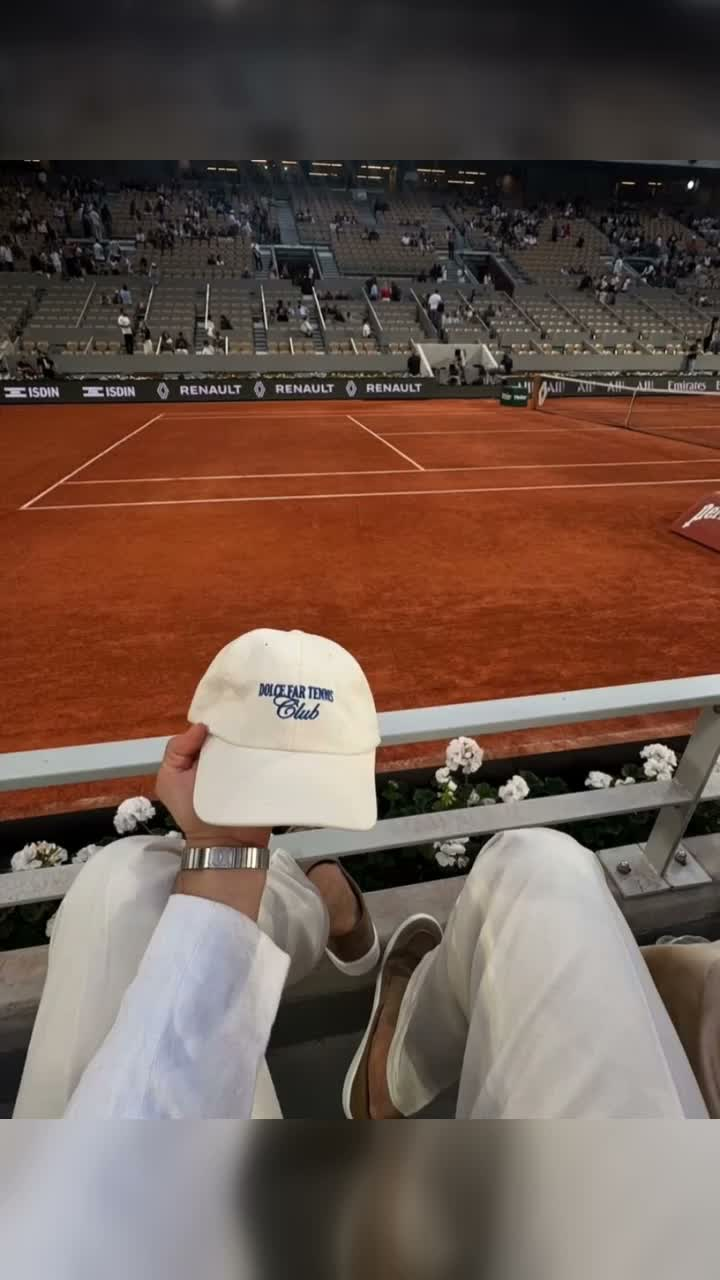
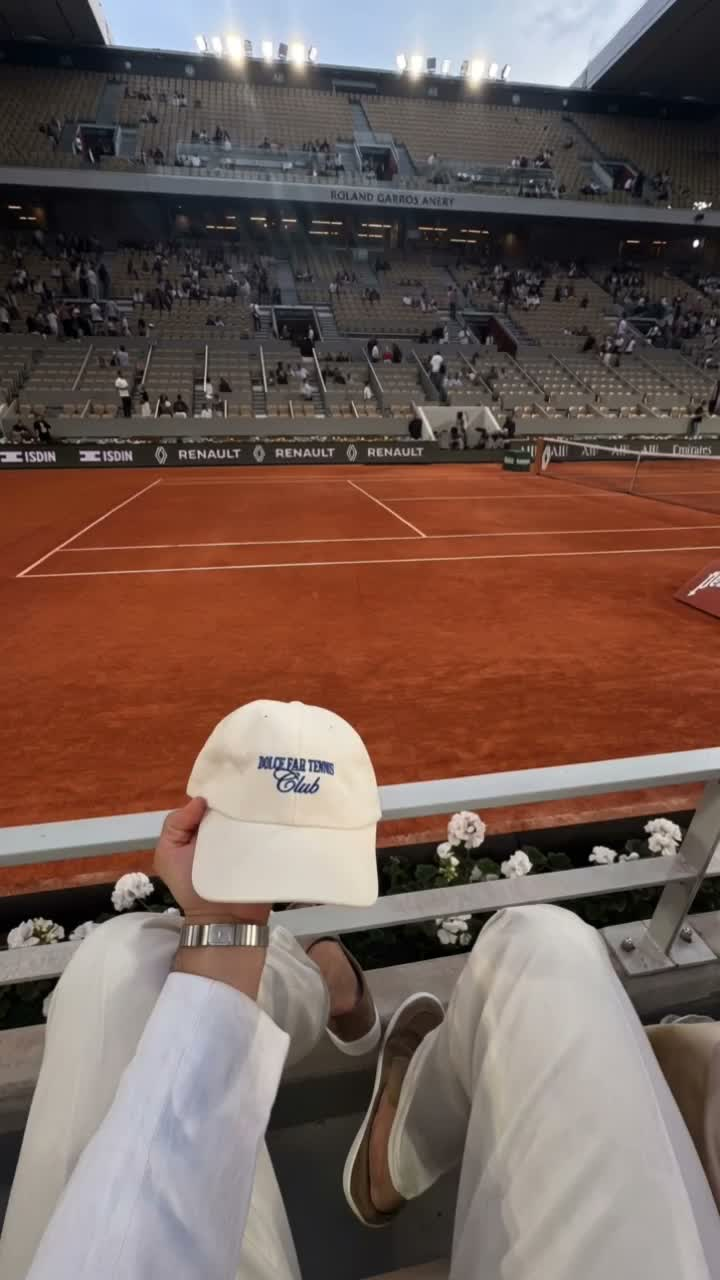
Landing overhaul: seamless hero reel, count-up stats, DM collage, cube-flip, how-it-works
- Hero: full-bleed 9:16 reel (all 4 clips outpainted to native 9:16, no letterbox) —
  courtside, Federer serve, Alcaraz trophy, slow-mo celebration
- Hero stats: count-up benefit metrics (matches analysed / tournaments / data points)
- Hook: cube-flip word rotator (high-income skill -> financial freedom -> ...)
- "Unlike the rest": Instagram-DM testimonial collage replaces photo grid
- Feature section rewritten as a 4-step "how it works" with new analysis imagery

diff --git a/index.html b/index.html
@@ -178,6 +178,25 @@ footer{border-top:1px solid var(--line-soft);padding:40px 0;font-size:13px;color
 .foot .links{display:flex;gap:26px;font-size:11px;text-transform:uppercase;letter-spacing:1.5px;font-weight:500}
 .foot a:hover{color:var(--white)}
 
+/* cube-flip word rotator */
+.rotator{display:inline-block;perspective:900px;vertical-align:baseline}
+.rotator .w{display:inline-block;color:var(--white);border-bottom:3px solid var(--gold);transition:transform .33s var(--ease),opacity .33s var(--ease);transform-origin:50% 62%;will-change:transform,opacity;backface-visibility:hidden}
+
+/* DM collage ("you're unlike the rest") */
+.dmgrid{column-count:4;column-gap:14px;padding:0 14px;filter:brightness(.66) saturate(.95)}
+.dm{break-inside:avoid;margin:0 0 14px;background:#141413;border:1px solid var(--line-soft);border-radius:18px;padding:14px 14px 16px}
+.dm-h{display:flex;align-items:center;gap:9px;margin-bottom:10px}
+.dm-h .av{width:28px;height:28px;border-radius:50%;background:linear-gradient(135deg,#2c2c29,#3a3a36);border:1px solid var(--line);display:flex;align-items:center;justify-content:center;font-size:10px;font-weight:600;color:#e9e7df;flex:none}
+.dm-h .hn{font-size:12.5px;font-weight:600;color:#e9e7df}
+.dm-h .on{margin-left:auto;font-size:10px;color:var(--faint)}
+.bub{background-color:#2c2c2a;color:#ecece6;font-size:13px;line-height:1.45;padding:8px 12px;border-radius:16px 16px 16px 5px;margin-top:6px;max-width:94%;width:fit-content}
+.bub.p{border-radius:16px;line-height:1.5}
+@media(max-width:820px){.dmgrid{column-count:2}}
+@media(max-width:520px){.dmgrid{column-count:1}}
+
+/* count-up */
+.hstat b.count{font-variant-numeric:tabular-nums}
+
 /* motion */
 .reveal{opacity:0;transform:translateY(20px);transition:opacity .8s var(--ease),transform .8s var(--ease)}
 .reveal.in{opacity:1;transform:none}
@@ -214,15 +233,15 @@ footer{border-top:1px solid var(--line-soft);padding:40px 0;font-size:13px;color
     <div class="cta"><a class="btn" href="https://app.wavehubtennis.com/apply">Apply</a></div>
   </div>
   <div class="hero-stats">
-    <div class="hstat"><b>ATP</b><span>Men's tennis only</span></div>
-    <div class="hstat"><b>98%</b><span>Never turn a profit</span></div>
-    <div class="hstat"><b>2022</b><span>In the game since</span></div>
+    <div class="hstat"><b class="count" data-to="2500" data-suffix="+">0</b><span>ATP matches analysed</span></div>
+    <div class="hstat"><b class="count" data-to="60" data-suffix="+">0</b><span>Tournaments a year</span></div>
+    <div class="hstat"><b class="count" data-to="128" data-suffix="">0</b><span>Data points per pick</span></div>
   </div>
 </section>
 
 <section class="hook">
   <div class="wrap">
-    <h2 class="reveal">If someone offered you<br><em>a high-income skill</em><br>would you take it?</h2>
+    <h2 class="reveal">If someone offered you<br><span class="rotator"><span class="w">a high-income skill</span></span><br>would you take it?</h2>
     <div class="reveal">
       <span class="join">
         <span class="avstack"><span>MK</span><span>TS</span><span>VK</span></span>
@@ -233,21 +252,25 @@ footer{border-top:1px solid var(--line-soft);padding:40px 0;font-size:13px;color
 </section>
 
 <section class="gallery">
-  <div class="grid" aria-hidden="true">
-    <div class="tile"><img src="assets/wh-run.jpg" alt=""></div>
-    <div class="tile"><img src="assets/wh-terrace.jpg" alt=""></div>
-    <div class="tile"><img src="assets/wh-tennis.jpg" alt=""></div>
-    <div class="tile"><img src="assets/wh-gwagon.jpg" alt=""></div>
-    <div class="tile"><img src="assets/wh-phone.jpg" alt=""></div>
-    <div class="tile"><img src="assets/wh-terrace.jpg" alt=""></div>
-    <div class="tile"><img src="assets/wh-tennis.jpg" alt=""></div>
-    <div class="tile"><img src="assets/wh-run.jpg" alt=""></div>
-    <div class="tile"><img src="assets/wh-gwagon.jpg" alt=""></div>
-    <div class="tile"><img src="assets/wh-phone.jpg" alt=""></div>
-    <div class="tile"><img src="assets/wh-tennis.jpg" alt=""></div>
-    <div class="tile"><img src="assets/wh-terrace.jpg" alt=""></div>
-    <div class="tile"><img src="assets/wh-run.jpg" alt=""></div>
-    <div class="tile"><img src="assets/wh-gwagon.jpg" alt=""></div>
+  <div class="dmgrid" aria-hidden="true">
+    <div class="dm"><div class="dm-h"><span class="av">JV</span><span class="hn">jonas_v</span><span class="on">now</span></div>
+      <div class="bub">omg</div><div class="bub">the bet just landed 😭</div><div class="bub">you're a genius</div><div class="bub">i've been telling everyone</div><div class="bub">thank you man 🙏</div></div>
+    <div class="dm"><div class="dm-h"><span class="av">MR</span><span class="hn">m.reuter</span><span class="on">2h</span></div>
+      <div class="bub p">Bro I have to say this properly. Six months ago I was chasing every match and tilting my bankroll. Since I joined I bet a third as often, I actually understand the value now, and it finally feels like a skill instead of gambling. Genuinely grateful — this changed how I think about the whole thing.</div></div>
+    <div class="dm"><div class="dm-h"><span class="av">KV</span><span class="hn">kev.value</span><span class="on">1d</span></div>
+      <div class="bub">no-bet days hit different 😮💨</div><div class="bub">so much more disciplined now</div></div>
+    <div class="dm"><div class="dm-h"><span class="av">TS</span><span class="hn">t.serves</span><span class="on">3h</span></div>
+      <div class="bub">the staking plan alone is worth it</div><div class="bub">just renewed for another year ✅</div></div>
+    <div class="dm"><div class="dm-h"><span class="av">LB</span><span class="hn">luca__b</span><span class="on">now</span></div>
+      <div class="bub">how are you this early on the price every time 😂</div><div class="bub">unreal</div></div>
+    <div class="dm"><div class="dm-h"><span class="av">AP</span><span class="hn">andreas_p</span><span class="on">5h</span></div>
+      <div class="bub p">First month done. Didn't expect to actually enjoy the patience. Feels like an investment now, not a punt. Cheers for the honesty.</div></div>
+    <div class="dm"><div class="dm-h"><span class="av">SK</span><span class="hn">sim.k</span><span class="on">now</span></div>
+      <div class="bub">omg omg</div><div class="bub">called it again</div><div class="bub">🐐🐐🐐</div></div>
+    <div class="dm"><div class="dm-h"><span class="av">DM</span><span class="hn">david.mnt</span><span class="on">1d</span></div>
+      <div class="bub p">Thank you for the "no value today" messages. That honesty is exactly why I trust everything else. Nobody else does that.</div></div>
+    <div class="dm"><div class="dm-h"><span class="av">PR</span><span class="hn">phil_r</span><span class="on">4h</span></div>
+      <div class="bub">best decision I've made this year</div><div class="bub">told my friends already 😅</div></div>
   </div>
   <div class="scrim">
     <h2 class="reveal">You're unlike the rest.<br>So are we.</h2>
@@ -258,42 +281,42 @@ footer{border-top:1px solid var(--line-soft);padding:40px 0;font-size:13px;color
 <section class="sec" id="system">
   <div class="wrap">
     <div class="sec-head reveal">
-      <span class="label">The skill</span>
-      <h2>One sport. One system.</h2>
-      <p>Everything runs through the app: the picks, the value behind them, and the discipline that turns betting into a skill you keep for life.</p>
+      <span class="label">How it works</span>
+      <h2>Four steps. One skill.</h2>
+      <p>No hype and no daily noise. Here is exactly how WaveHub works — from the read that lands in your app to the discipline that makes it stick.</p>
     </div>
 
     <div class="feats">
       <div class="feat reveal">
         <div class="txt">
-          <div class="l"><span class="idx">01</span><h3>The picks</h3></div>
-          <p>Few, tightly structured ATP calls with the reasoning behind each. Some days the right call is: no bet.</p>
+          <div class="l"><span class="idx">01</span><h3>Get the daily read</h3></div>
+          <p>Every day you open the app to our ATP analysis: the matchups that matter, where the value sits, and the reasoning behind it. Clear, never cluttered.</p>
         </div>
-        <div class="img"><img src="assets/court-serve.png" alt="" loading="lazy"></div>
+        <div class="img"><img src="assets/how-1.jpg" alt="" loading="lazy"></div>
       </div>
 
       <div class="feat reveal">
         <div class="txt">
-          <div class="l"><span class="idx">02</span><h3>The value</h3></div>
-          <p>Early to the market. Every pick takes a price higher than the matchup deserves, before the line moves. That gap compounds.</p>
+          <div class="l"><span class="idx">02</span><h3>See value, not noise</h3></div>
+          <p>Few high-conviction calls, never daily volume. When there is no edge, we say it out loud: no bet today. That honesty is the whole point.</p>
         </div>
-        <div class="img"><img src="assets/aspiration-city.png" alt="" loading="lazy"></div>
+        <div class="img"><img src="assets/how-2.jpg" alt="" loading="lazy"></div>
       </div>
 
       <div class="feat reveal">
         <div class="txt">
-          <div class="l"><span class="idx">03</span><h3>The app</h3></div>
-          <p>Installable on iPhone and Android. Your feed, your staking plan, your tools. A push the moment a pick drops.</p>
+          <div class="l"><span class="idx">03</span><h3>Follow the plan</h3></div>
+          <p>A simple staking plan tells you exactly how to size each play. Discipline does the heavy lifting — not luck, not a gut feeling.</p>
         </div>
-        <div class="img"><img src="assets/court-walk.png" alt="" loading="lazy"></div>
+        <div class="img"><img src="assets/how-3.jpg" alt="" loading="lazy"></div>
       </div>
 
       <div class="feat reveal">
         <div class="txt">
-          <div class="l"><span class="idx">04</span><h3>The tools</h3></div>
-          <p>Match insights, the numbers that decide ATP tennis, staking discipline and tournament PDFs you won't find anywhere else.</p>
+          <div class="l"><span class="idx">04</span><h3>Build the skill</h3></div>
+          <p>Every result is tracked in the open. Over a season the small edges compound into something you keep for life: the skill itself.</p>
         </div>
-        <div class="img"><img src="assets/aspiration-cars.png" alt="" loading="lazy"></div>
+        <div class="img"><img src="assets/how-4.jpg" alt="" loading="lazy"></div>
       </div>
     </div>
   </div>
@@ -402,7 +425,7 @@ footer{border-top:1px solid var(--line-soft);padding:40px 0;font-size:13px;color
 
 <section class="final">
   <div class="media">
-    <img src="assets/court-serve.png" alt="">
+    <img src="assets/wh-tennis.jpg" alt="">
   </div>
   <div class="final-inner reveal">
     <h2>A high-income skill.</h2>
@@ -439,6 +462,47 @@ footer{border-top:1px solid var(--line-soft);padding:40px 0;font-size:13px;color
     entries.forEach(function(e){ if (e.isIntersecting){ e.target.classList.add('in'); io.unobserve(e.target); } });
   }, { threshold: 0.12, rootMargin: '0px 0px -6% 0px' });
   els.forEach(function(el){ io.observe(el); });
+})();
+
+// count-up stats
+(function(){
+  var reduce = window.matchMedia && window.matchMedia('(prefers-reduced-motion: reduce)').matches;
+  var nums = document.querySelectorAll('.count'); if (!nums.length) return;
+  function fmt(v){ return v.toLocaleString('en-US'); }
+  function run(el){
+    if (el._ran) return; el._ran = true;
+    var to = parseFloat(el.getAttribute('data-to')) || 0, suf = el.getAttribute('data-suffix') || '', steps = 50, i = 0;
+    var iv = setInterval(function(){
+      i++; var p = Math.min(i / steps, 1); var e = 1 - Math.pow(1 - p, 3);
+      el.textContent = fmt(Math.round(to * e)) + suf;
+      if (p >= 1) clearInterval(iv);
+    }, 30);
+  }
+  if (reduce) { nums.forEach(function(n){ n.textContent = fmt(parseFloat(n.getAttribute('data-to')) || 0) + (n.getAttribute('data-suffix') || ''); }); return; }
+  function inView(el){ var r = el.getBoundingClientRect(); return r.top < (window.innerHeight * 0.92) && r.bottom > 0; }
+  function checkAll(){ nums.forEach(function(n){ if (!n._ran && inView(n)) run(n); }); }
+  checkAll();
+  window.addEventListener('scroll', checkAll, { passive: true });
+  window.addEventListener('resize', checkAll, { passive: true });
+  setTimeout(checkAll, 500);
+})();
+
+// cube-flip word rotator
+(function(){
+  var el = document.querySelector('.rotator .w'); if (!el) return;
+  var reduce = window.matchMedia && window.matchMedia('(prefers-reduced-motion: reduce)').matches;
+  if (reduce) return;
+  var words = ['a high-income skill','financial freedom','an unfair edge','a skill for life','time on your terms','the 2% club'];
+  var i = 0;
+  setInterval(function(){
+    el.style.transform = 'rotateX(90deg)'; el.style.opacity = '0';
+    setTimeout(function(){
+      i = (i + 1) % words.length; el.textContent = words[i];
+      el.style.transition = 'none'; el.style.transform = 'rotateX(-90deg)';
+      void el.offsetWidth;
+      el.style.transition = ''; el.style.transform = 'rotateX(0deg)'; el.style.opacity = '1';
+    }, 330);
+  }, 2600);
 })();
 </script>
 